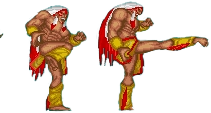
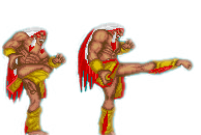
added images for enemy

diff --git a/index.js b/index.js
@@ -82,6 +82,37 @@ const enemy = new Fighter({
     x: -50,
     y: 0,
   },
+  imageSrc: './assets/redman/redman.idle.png',
+  framesMax: 2,
+  scale: 1.2,
+  offset : {
+    x: -20,
+    y: 0
+  },
+  sprites : {
+    idle: {
+      imageSrc: './assets/redman/redman.idle.png',
+      framesMax: 2,
+      
+    },
+    run: {
+      imageSrc: './assets/redman/redman.run.png',
+      framesMax: 4,
+    },
+    jump: {
+      imageSrc: './assets/redman/redman.jump.png',
+      framesMax: 1,
+    },
+    fall : {
+      imageSrc: './assets/redman/redman.fall.png',
+      framesMax: 1,
+    },
+    attack : {
+      imageSrc: './assets/redman/redman.attack.png',
+      framesMax: 2,
+    }
+    
+  }
 });
 
 console.log(player);
@@ -113,7 +144,7 @@ function animate() {
   background.update();
   shop.update();
   player.update();
-  // enemy.update();
+  enemy.update();
 
   player.velocity.x = 0;
   enemy.velocity.x = 0;
